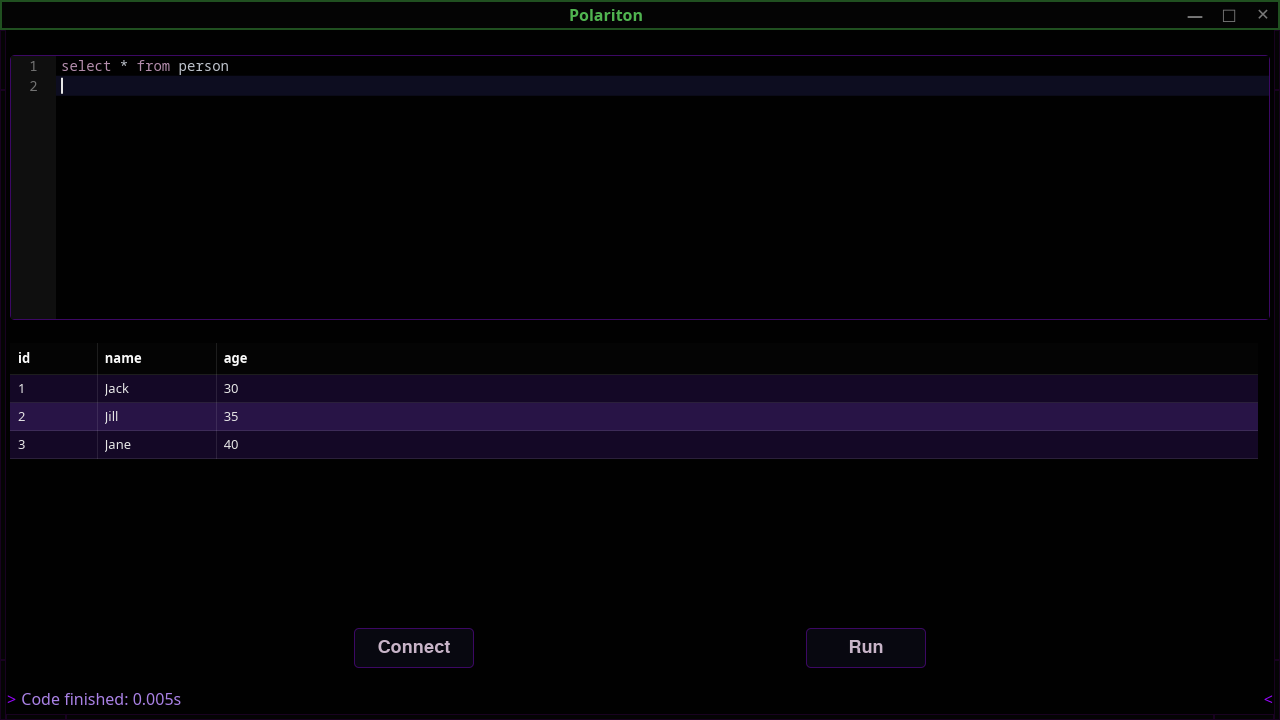
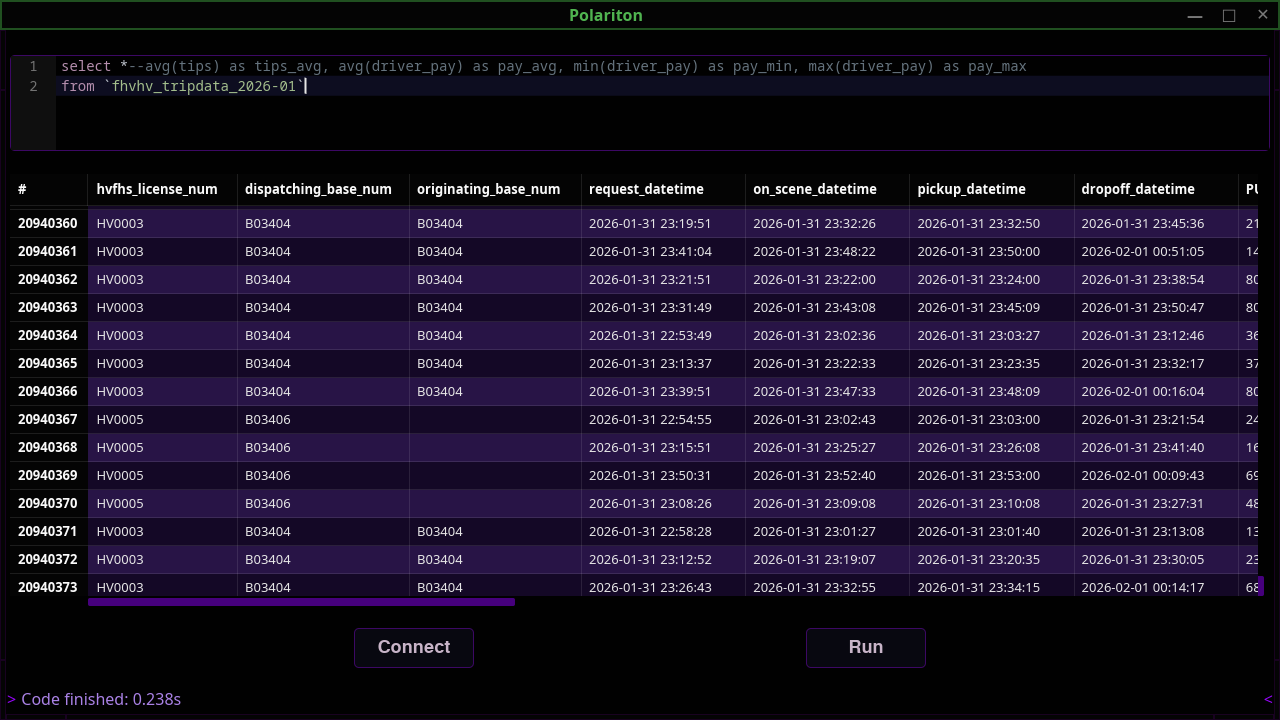
docs: show larger resultset.

diff --git a/README.md b/README.md
@@ -2,5 +2,34 @@
 
 A strong coupling of data and visualization.
 
+#### Features:
+ - Query 10M rows into local memory in milliseconds.
+ - Memory model is polars::frame::DataFrame for blazing fast analytics.
+ - Instant scolling, no kill -9 required to scroll though 10M rows.
+ - Made with 100% Rust, no JVM garbage factories included. 🦀
+ - Batteries included, all drivers are bundled.
+ - Generic SQL syntax highlighting.
+ - Supports both DDL and DML.
+ - Resizable & Rearrangeable ui panels.
+
+#### Adapters:
+ - SQLite (file or memory)
+ - Parquet (single file)
+
 #### Screenshots:
-![ScreenShot](https://github.com/JoelBondurant/polariton/blob/main/doc/img/screenshot_1.png)
+![Polariton SQL IDE interface showing query editor and results pane](https://github.com/JoelBondurant/polariton/blob/main/doc/img/screenshot_1.png?raw=true)
+
+#### Backlog:
+ - Jump to row
+ - Shift+Enter to run code
+ - Tab/Shift+Tab gui navigation
+ - Improved status bar
+ - Encrypted persistent settings (window size, adapter configurations)
+ - Column type labels
+ - Sort / Filter by column
+ - Run selected code, not the entire code editor.
+ - Password protection.
+ - More data sources (Postgres, MySQL, BigQuery, Redshift, ad inf...)
+ - Scatter / Line / Bar plots
+ - Hexbin / Kernel Density plots
+ - Qwen Coder SQL generator
